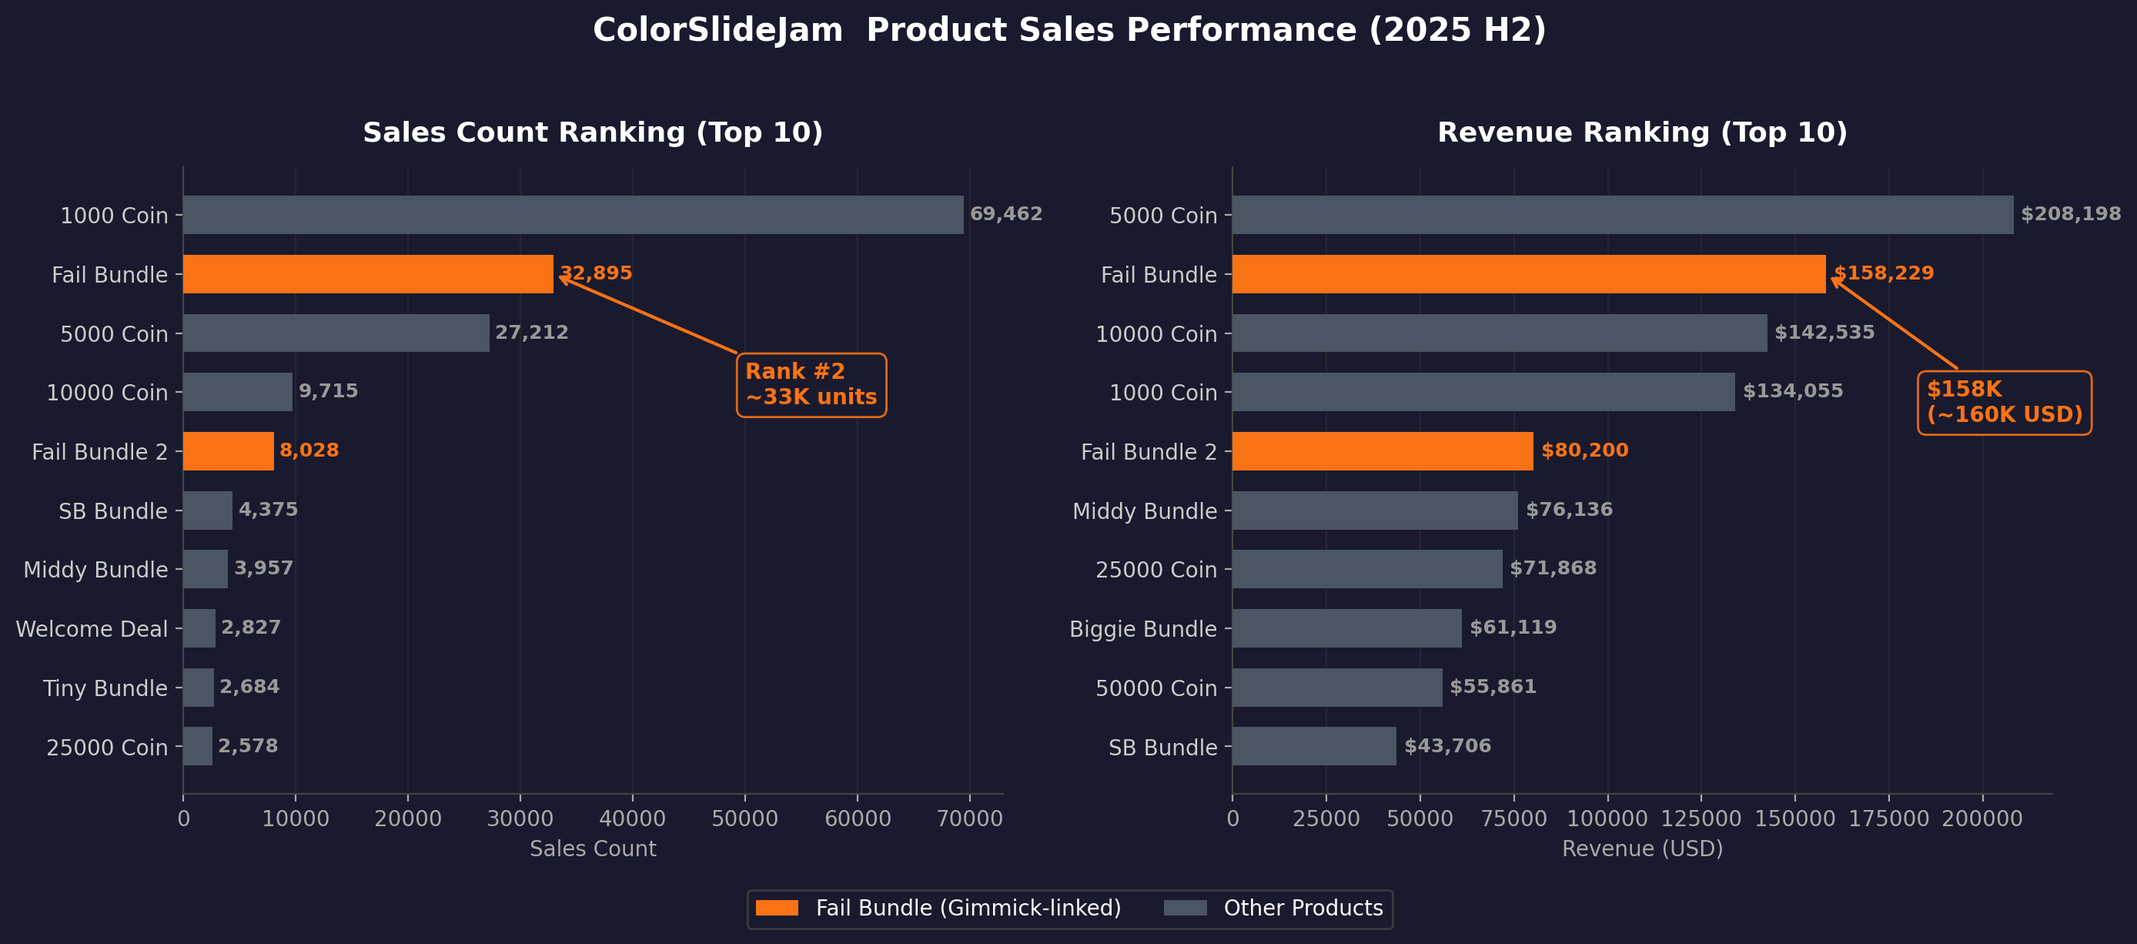
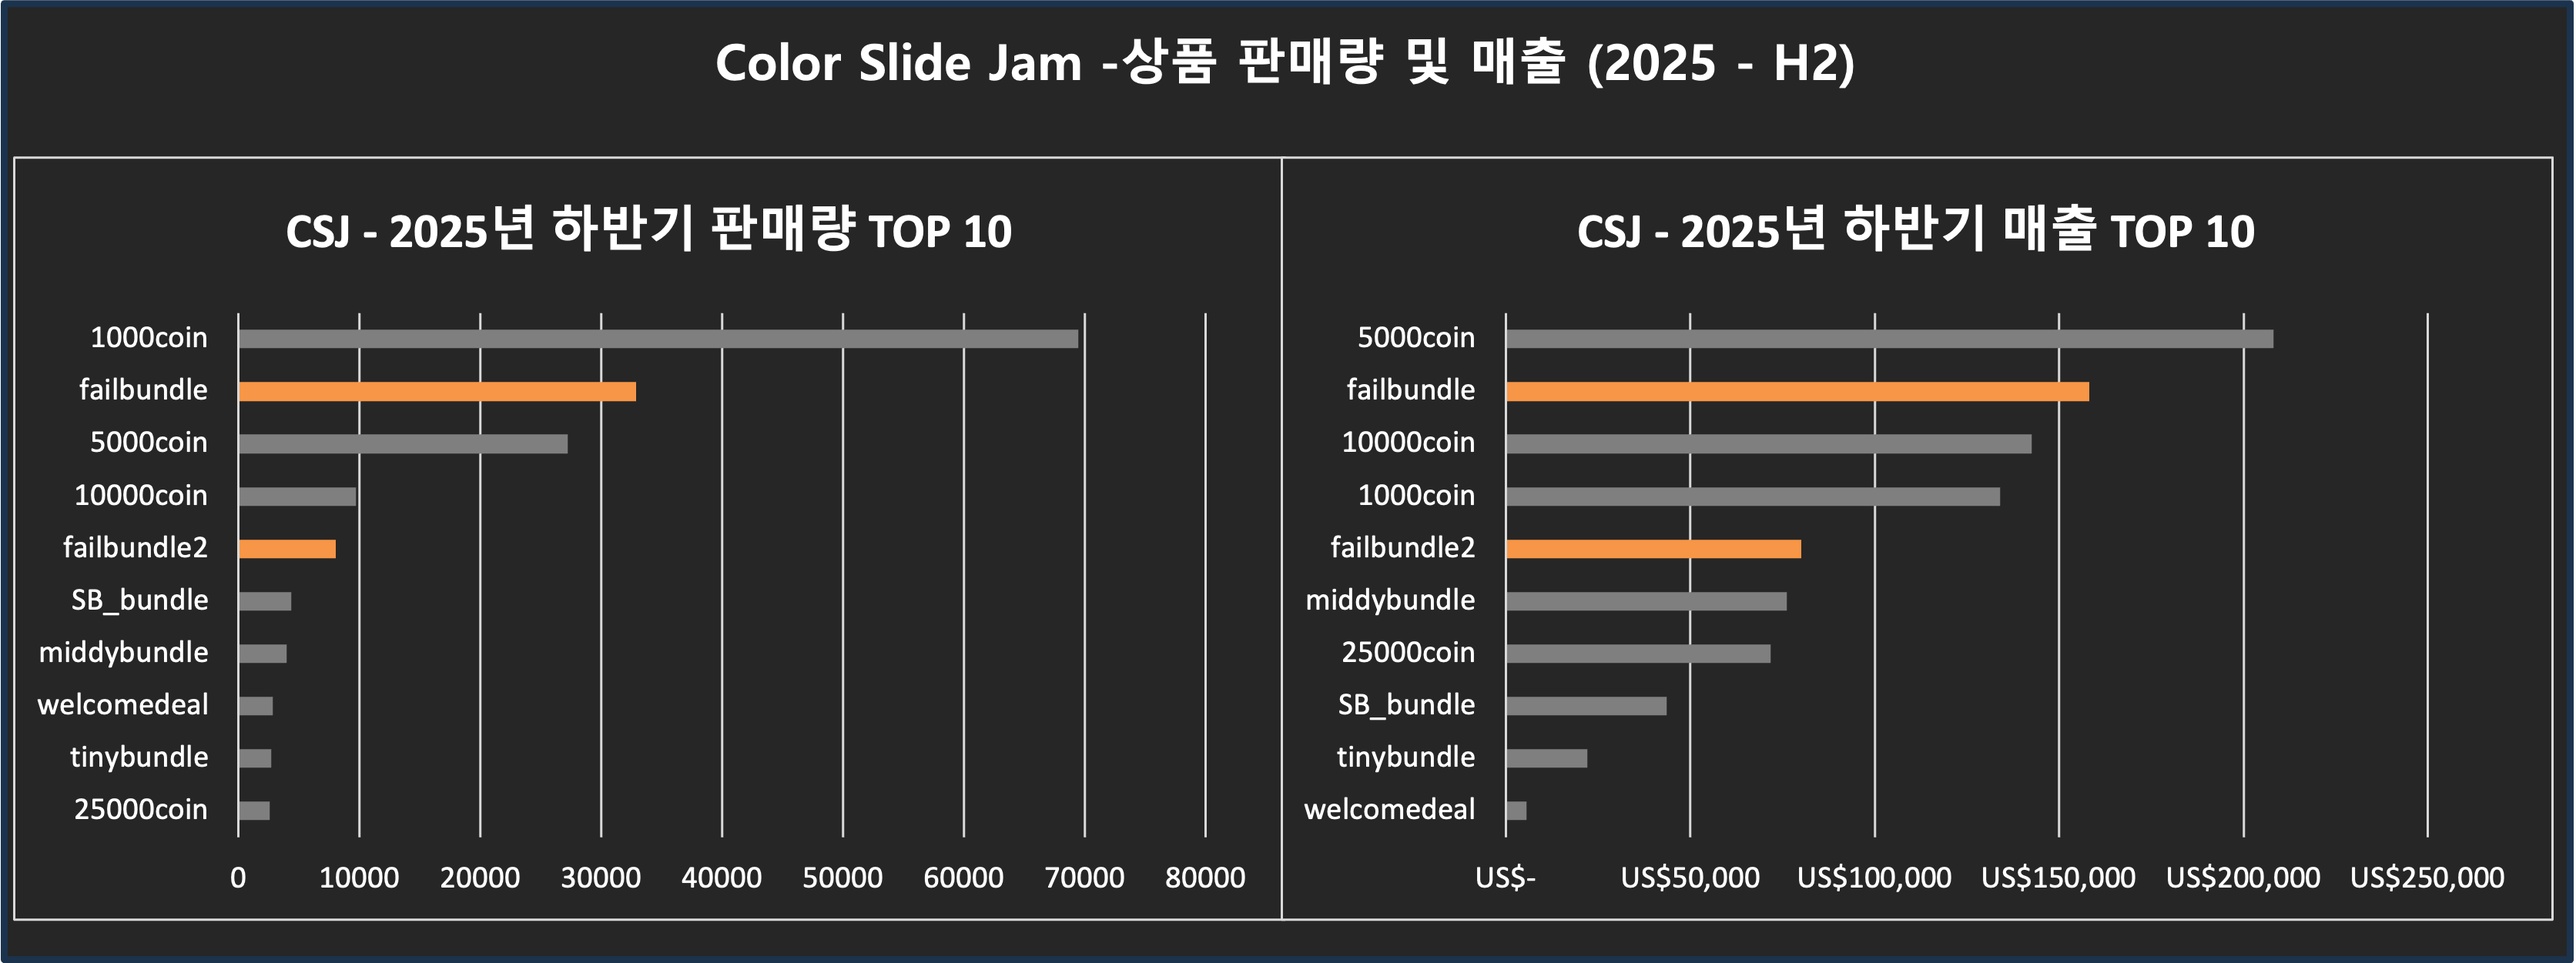
fix: 이미지 변경

Changed region(s): [[0.0, 0.0, 1.0, 1.0]]

diff --git a/index.html b/index.html
@@ -671,6 +671,10 @@
             <!-- 성과: 비동기식 스킬 시스템 설계를 통한 실시간 대전 딜레이 해결 -->
             <div class="hl-card">
                 <h3 class="hl-card-title">비동기식 스킬 시스템 설계를 통한 실시간 대전 스킬 딜레이 이슈 해결</h3>
+                <div class="hl-card-images">
+                    <img src="IMG_Highlights/hl_sync_skill_01.png" alt="비동기식 스킬 시스템 설계 화면 1" class="hl-card-img">
+                    <img src="IMG_Highlights/hl_sync_skill_02.png" alt="비동기식 스킬 시스템 설계 화면 2" class="hl-card-img">
+                </div>
 
                 <div class="hl-section">
                     <span class="hl-label hl-label-what">What</span>
